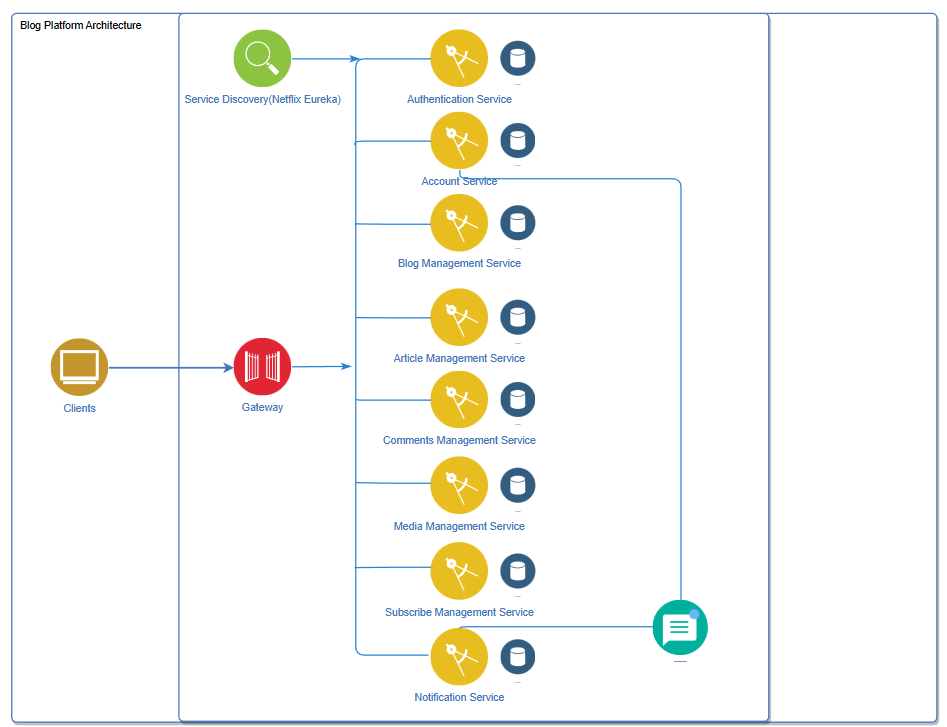
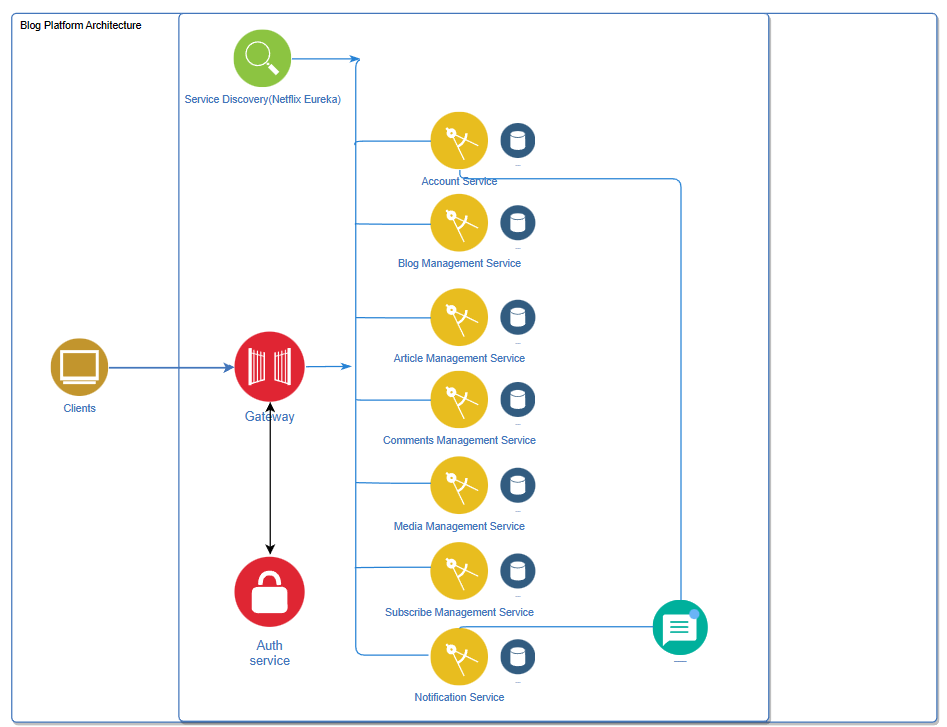
architecture diagram edited

Changed region(s): [[0.4287, 0.0303, 0.5818, 0.1513], [0.245, 0.7263, 0.3369, 0.9381], [0.245, 0.4539, 0.3369, 0.6052]]

diff --git a/auth-service/src/main/java/com/ms/config/AuthConfig.java b/auth-service/src/main/java/com/ms/config/AuthConfig.java
@@ -2,10 +2,24 @@ package com.ms.config;
 
 import org.springframework.context.annotation.Bean;
 import org.springframework.context.annotation.Configuration;
+import org.springframework.security.config.annotation.web.builders.HttpSecurity;
+import org.springframework.security.config.annotation.web.configuration.EnableWebSecurity;
 import org.springframework.security.crypto.bcrypt.BCryptPasswordEncoder;
 import org.springframework.security.crypto.password.PasswordEncoder;
+import org.springframework.security.web.SecurityFilterChain;
+
 @Configuration
+@EnableWebSecurity
 public class AuthConfig {
+    @Bean
+    public SecurityFilterChain securityFilterChain(HttpSecurity http) throws Exception {
+        return http.csrf().disable()
+                .authorizeHttpRequests()
+                .requestMatchers("/auth/register", "/auth/token", "/auth/validate").permitAll()
+                .and()
+                .build();
+    }
+
     @Bean
     public PasswordEncoder passwordEncoder(){
         return new BCryptPasswordEncoder();
